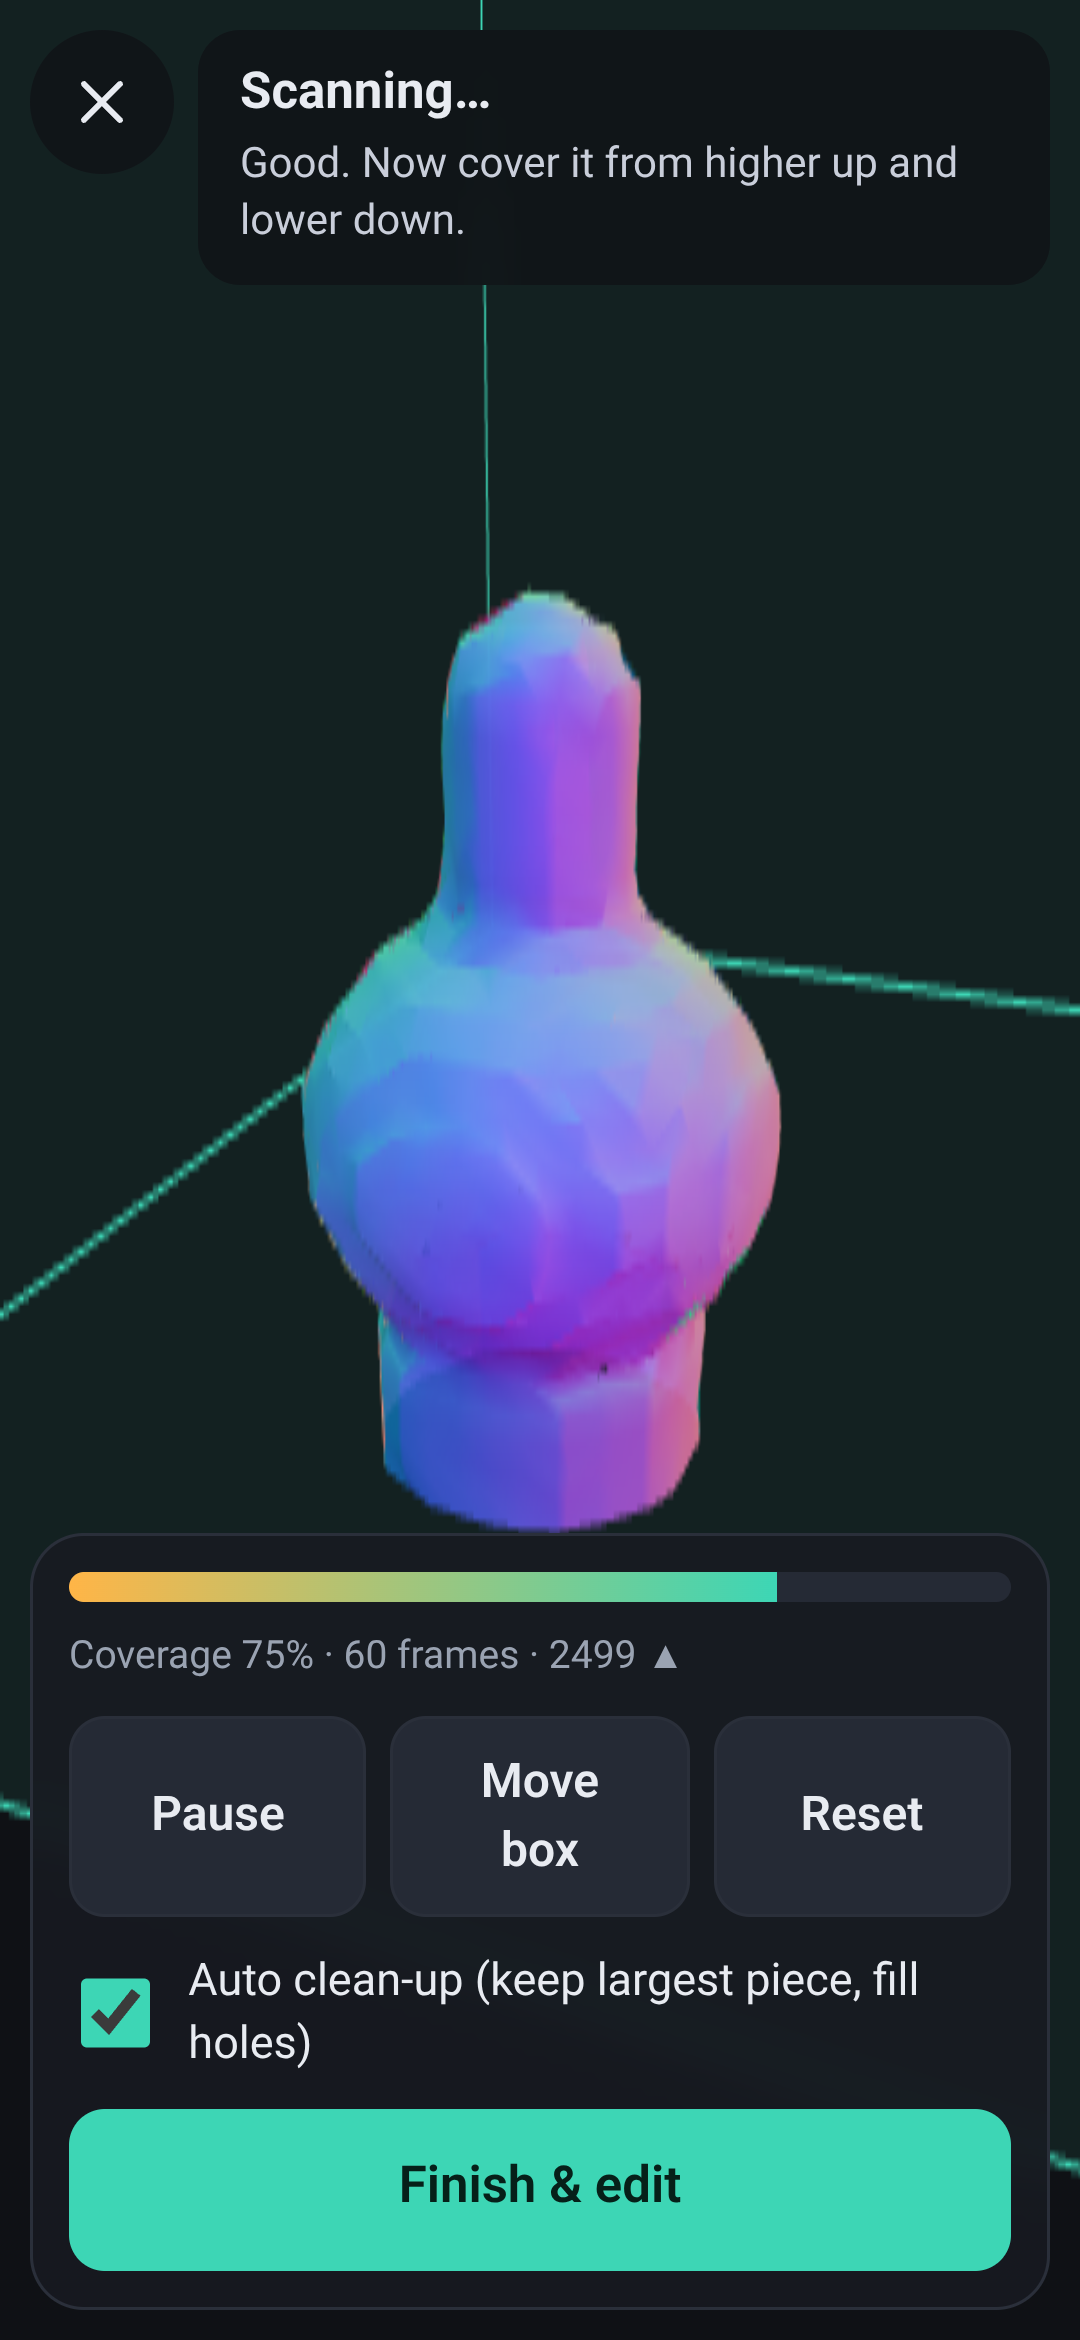
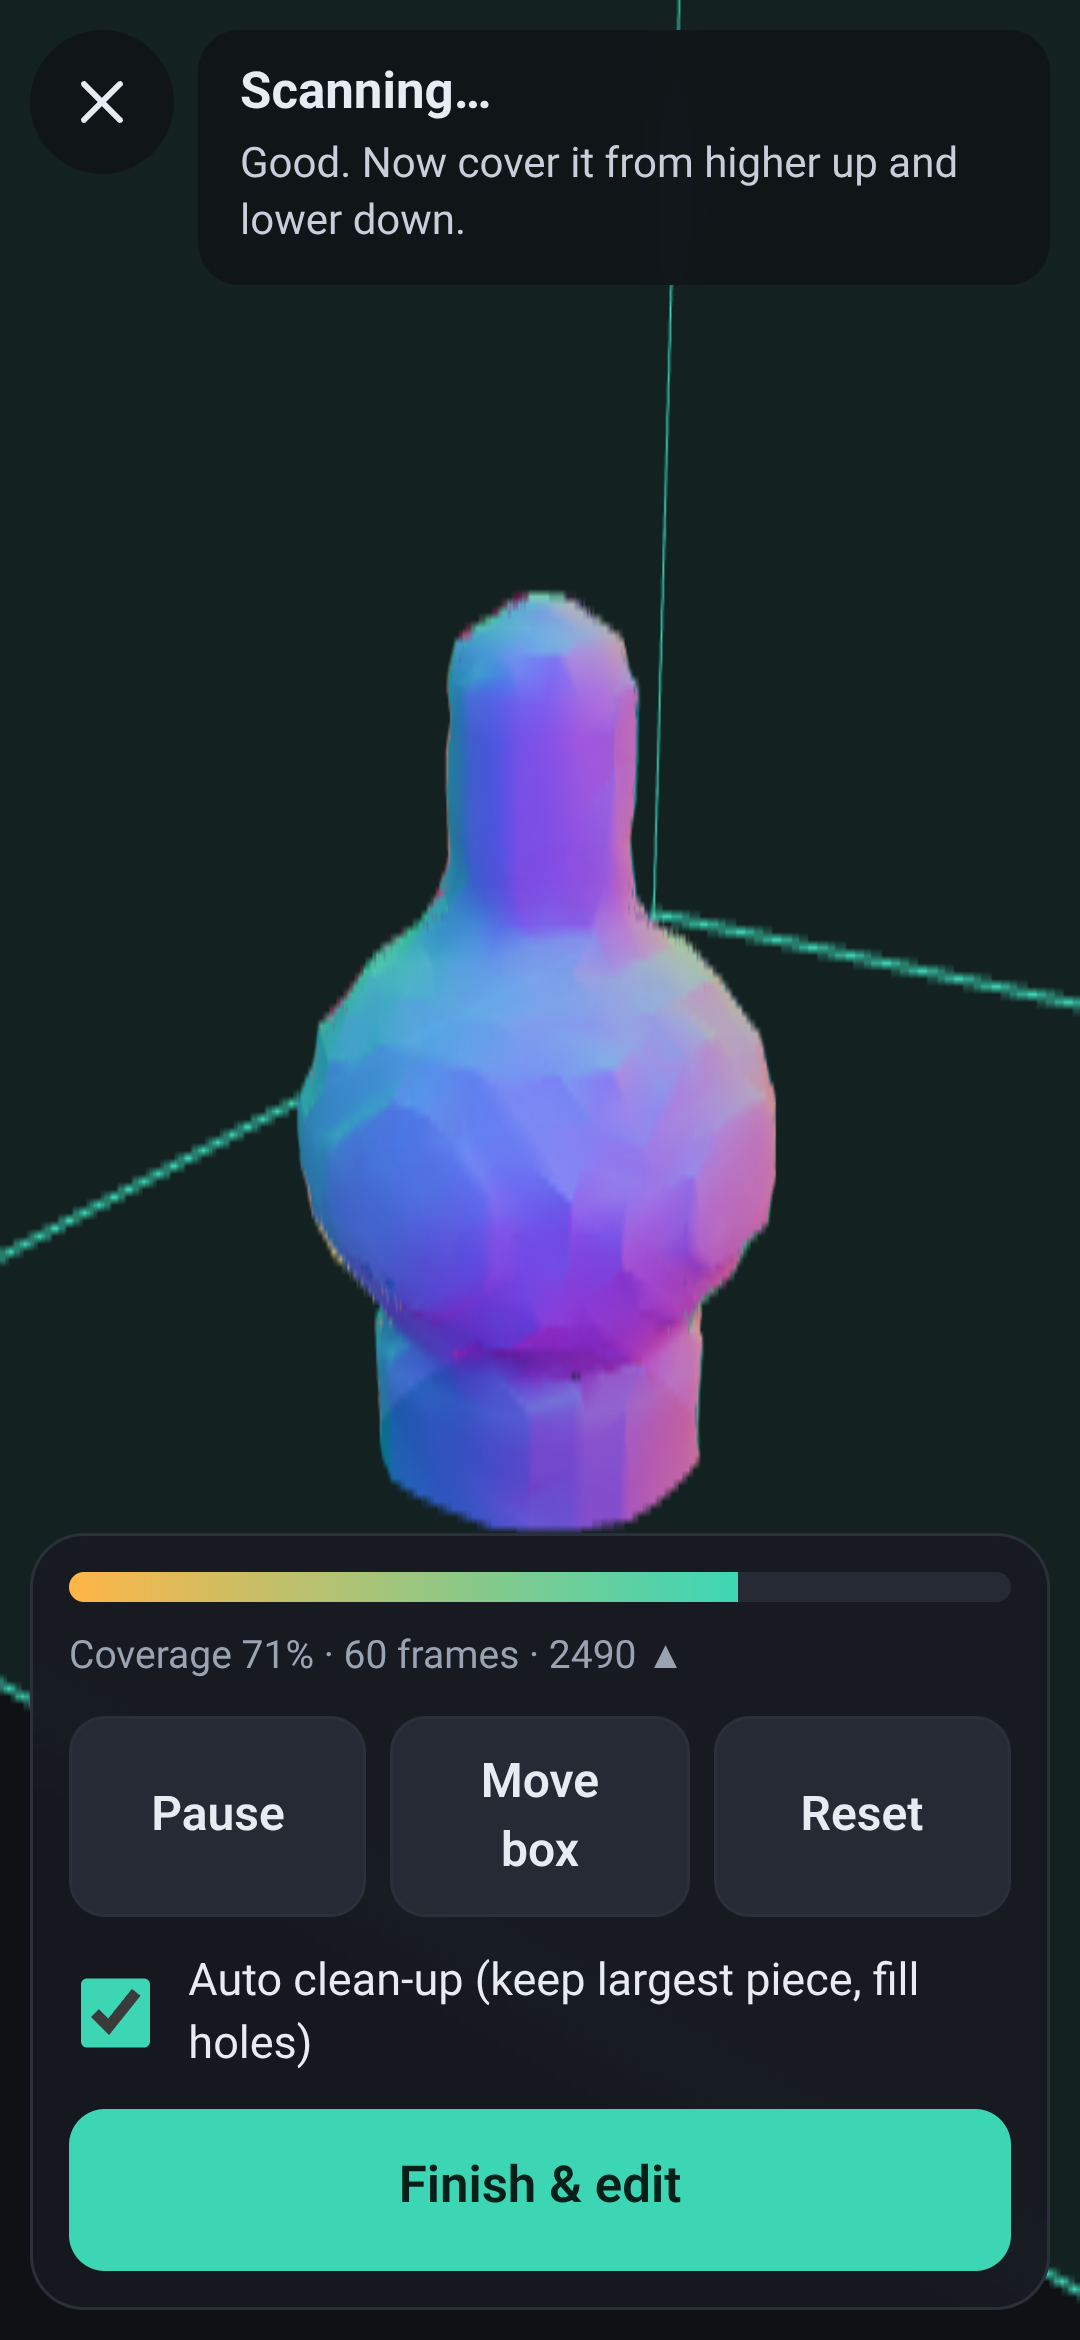
1.1.1: service worker installs bypass the HTTP cache; SW upgrade test

diff --git a/sw.js b/sw.js
@@ -1,5 +1,5 @@
 // Scan2Print service worker: offline app shell + Web Share Target (Android installed PWA).
-const VERSION = 'scan2print-v1.1.0';
+const VERSION = 'scan2print-v1.1.1';
 const CORE = [
   './', 'index.html', 'manifest.webmanifest', 'css/app.css',
   'js/app.js', 'js/meshops.js', 'js/worker.js', 'js/worker-client.js', 'js/exporters.js', 'js/sample.js',
@@ -15,7 +15,8 @@ const CORE = [
 ];
 
 self.addEventListener('install', (e) => {
-  e.waitUntil(caches.open(VERSION).then((c) => c.addAll(CORE)).then(() => self.skipWaiting()));
+  // cache: 'reload' bypasses the HTTP cache (GitHub Pages sends max-age=600), so a new version never stores stale files
+  e.waitUntil(caches.open(VERSION).then((c) => c.addAll(CORE.map((u) => new Request(u, { cache: 'reload' })))).then(() => self.skipWaiting()));
 });
 self.addEventListener('activate', (e) => {
   e.waitUntil(caches.keys().then((keys) => Promise.all(keys.filter((k) => k !== VERSION && k !== 'scan2print-share').map((k) => caches.delete(k))))

diff --git a/js/app.js b/js/app.js
@@ -6,7 +6,7 @@ import { WorkerClient } from './worker-client.js';
 import { makeSampleScan } from './sample.js';
 import { initScan } from './scan.js';
 
-export const APP_VERSION = '1.1.0';
+export const APP_VERSION = '1.1.1';
 const $ = (s) => document.querySelector(s);
 const $$ = (s) => [...document.querySelectorAll(s)];
 const DEG = Math.PI / 180;

diff --git a/tests/sw_upgrade.py b/tests/sw_upgrade.py
@@ -1,0 +1,42 @@
+"""Service-worker upgrade test: a returning user who has an older build cached (default: the v1.0.0 commit) must get
+the current build after reloading. Serves both versions from the same origin on port 8933.
+Usage: python3 tests/sw_upgrade.py [old-git-ref]"""
+import asyncio, os, subprocess, sys, tempfile, shutil, re
+from playwright.async_api import async_playwright
+ROOT = os.path.dirname(os.path.dirname(os.path.abspath(__file__)))
+OLD = sys.argv[1] if len(sys.argv) > 1 else '3d6833c'
+want = re.search(r"APP_VERSION = '([^']+)'", open(os.path.join(ROOT, 'js/app.js')).read()).group(1)
+
+def export(ref, dst):
+    for n in os.listdir(dst): shutil.rmtree(os.path.join(dst, n)) if os.path.isdir(os.path.join(dst, n)) else os.remove(os.path.join(dst, n))
+    if ref == 'WORKTREE':
+        subprocess.run(f'cd "{ROOT}" && git ls-files -co --exclude-standard | tar -cf - -T - | tar -xf - -C "{dst}"', shell=True, check=True)
+    else:
+        subprocess.run(f'cd "{ROOT}" && git archive {ref} | tar -x -C "{dst}"', shell=True, check=True)
+
+async def main():
+    site, prof = tempfile.mkdtemp(), tempfile.mkdtemp()
+    export(OLD, site)
+    srv = subprocess.Popen([sys.executable, '-m', 'http.server', '8933', '--bind', '127.0.0.1'], cwd=site, stdout=subprocess.DEVNULL, stderr=subprocess.DEVNULL)
+    ok = False
+    try:
+        await asyncio.sleep(1)
+        async with async_playwright() as p:
+            ctx = await p.chromium.launch_persistent_context(prof, args=['--use-gl=angle', '--use-angle=swiftshader', '--enable-unsafe-swiftshader'])
+            pg = await ctx.new_page()
+            await pg.goto('http://127.0.0.1:8933/'); await pg.wait_for_function('window.S2P')
+            await pg.evaluate('navigator.serviceWorker.ready.then(() => 1)'); await pg.reload()
+            await pg.wait_for_function('!!navigator.serviceWorker.controller', timeout=15000)
+            before = await pg.text_content('#version-note')
+            export('WORKTREE', site)
+            await pg.reload(); await pg.wait_for_timeout(2500)   # new sw.js installs + activates
+            await pg.reload(); await pg.wait_for_function('window.S2P'); await pg.wait_for_timeout(300)
+            after = await pg.text_content('#version-note')
+            keys = await pg.evaluate('caches.keys()')
+            ok = want in after and before != after
+            print(('PASS' if ok else 'FAIL') + f' sw upgrade {OLD} → worktree: "{before}" → "{after}", caches {keys}')
+            await ctx.close()
+    finally:
+        srv.terminate(); shutil.rmtree(site, ignore_errors=True); shutil.rmtree(prof, ignore_errors=True)
+    sys.exit(0 if ok else 1)
+asyncio.run(main())

diff --git a/README.md b/README.md
@@ -54,7 +54,7 @@ ios/                 native LiDAR scanner app (Swift Playgrounds package + TestF
 python3 -m http.server 8931          # then open http://localhost:8931/
 # append ?nosw to bypass the service worker while developing
 pip install playwright numpy && python3 -m playwright install chromium webkit
-tests/run_all.sh                     # unit + e2e (chromium, webkit) + PWA + scan e2e + screenshots
+tests/run_all.sh                     # unit + e2e (chromium, webkit) + PWA + SW upgrade + scan e2e + screenshots
 ```
 
 Live depth scanning can only be exercised for real on an ARCore phone with the Depth API (e.g. recent Pixel / Galaxy S
